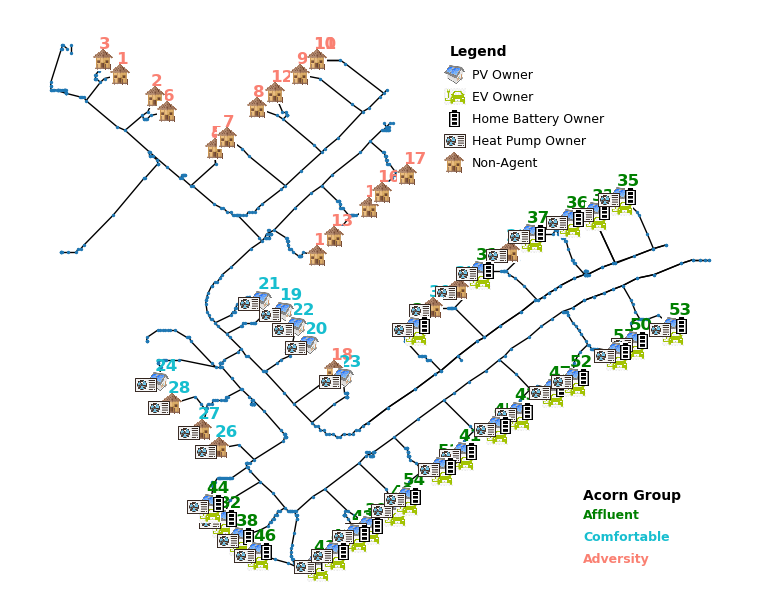
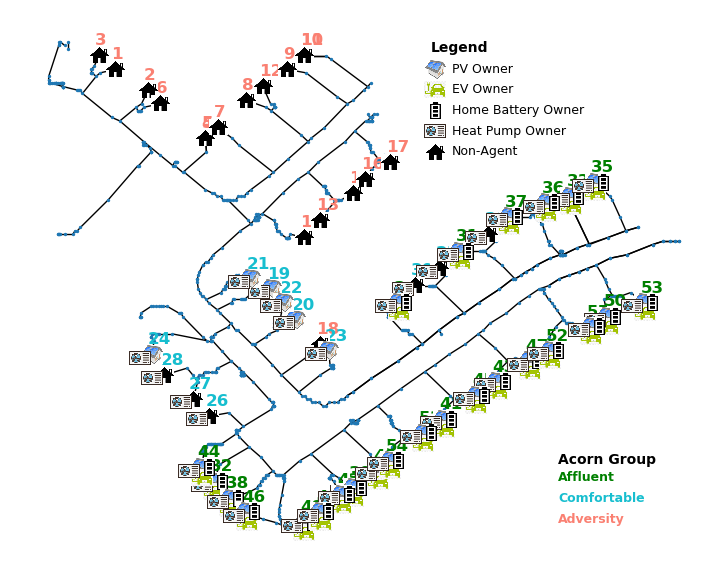
Test Feeder

diff --git a/Data/SM_Load.py b/Data/SM_Load.py
@@ -160,6 +160,8 @@ SM_DataFrame=SM_DataFrame.loc[:,~SM_DataFrame.columns.duplicated()]
 smkeys=['WinterWknd', 'WinterWkd','SpringWknd','SpringWkd','SummerWknd','SummerWkd','AutumnWknd','AutumnWkd']
 AcornGroup=['Adversity','Comfortable','Affluent']
 times = ['00:00','04:00','08:00','12:00','16:00','20:00','24:00']
+elexon_class1=pd.read_excel('Profiles/Average_Profiling_data_Elexon.xlsx', sheet_name='class1', index_col=0)
+elexon_class2=pd.read_excel('Profiles/Average_Profiling_data_Elexon.xlsx', sheet_name='class2',index_col=0)
 
 def DataFramebySeason(SM_DataFrame,SM_Summary,smkeys,AcornGroup):
     SM_ByAcorn={}
@@ -225,7 +227,7 @@ def SM_Visualise(SM_DistsConsolidated,smkeys,times):
     r=0
     for item in smkeys:
         plt.subplot(420 + n)
-        
+        plt.plot(elexon_class1[smkeys(i)])
         plt.plot(SM_DistsConsolidated['Affluent'][item].mean(),color='#33FF92', label="Affluent")
         plt.plot(SM_DistsConsolidated['Comfortable'][item].mean(),color='#17becf', label="Comfortable")
         plt.plot(SM_DistsConsolidated['Adversity'][item].mean(),color='#FA8072', label="Adversity")
@@ -335,9 +337,4 @@ pick_in = open("Pickle/SM_DistsConsolidated_NH.pickle", "rb")
 SM_DistsConsolidated_NH = pickle.load(pick_in)
 
 #SM_Visualise(SM_DistsConsolidated_NH,smkeys,times)
-
-elexon_class1=pd.read_excel('Profiles/Average_Profiling_data_Elexon.xlsx', sheet_name='class1', index_col=0)
-elexon_class2=pd.read_excel('Profiles/Average_Profiling_data_Elexon.xlsx', sheet_name='class2',index_col=0)
-
-for i in elexon_class1:
-    plt.plot(elexon_class1[i])
+    

diff --git a/Test_Feeder/network_plot.py b/Test_Feeder/network_plot.py
@@ -90,8 +90,8 @@ def Network_plot(Coords,Lines,Loads):
     PV_Icon = mpimg.imread('Feed1/PV_Icon.png')
     PVbox = OffsetImage(PV_Icon, zoom=0.3)
     
-    House = mpimg.imread('Feed1/House.png')
-    Housebox = OffsetImage(House, zoom=0.3)
+    House = mpimg.imread('Feed1/house.png')
+    Housebox = OffsetImage(House, zoom=0.15)
     
     G = nx.Graph()
    
